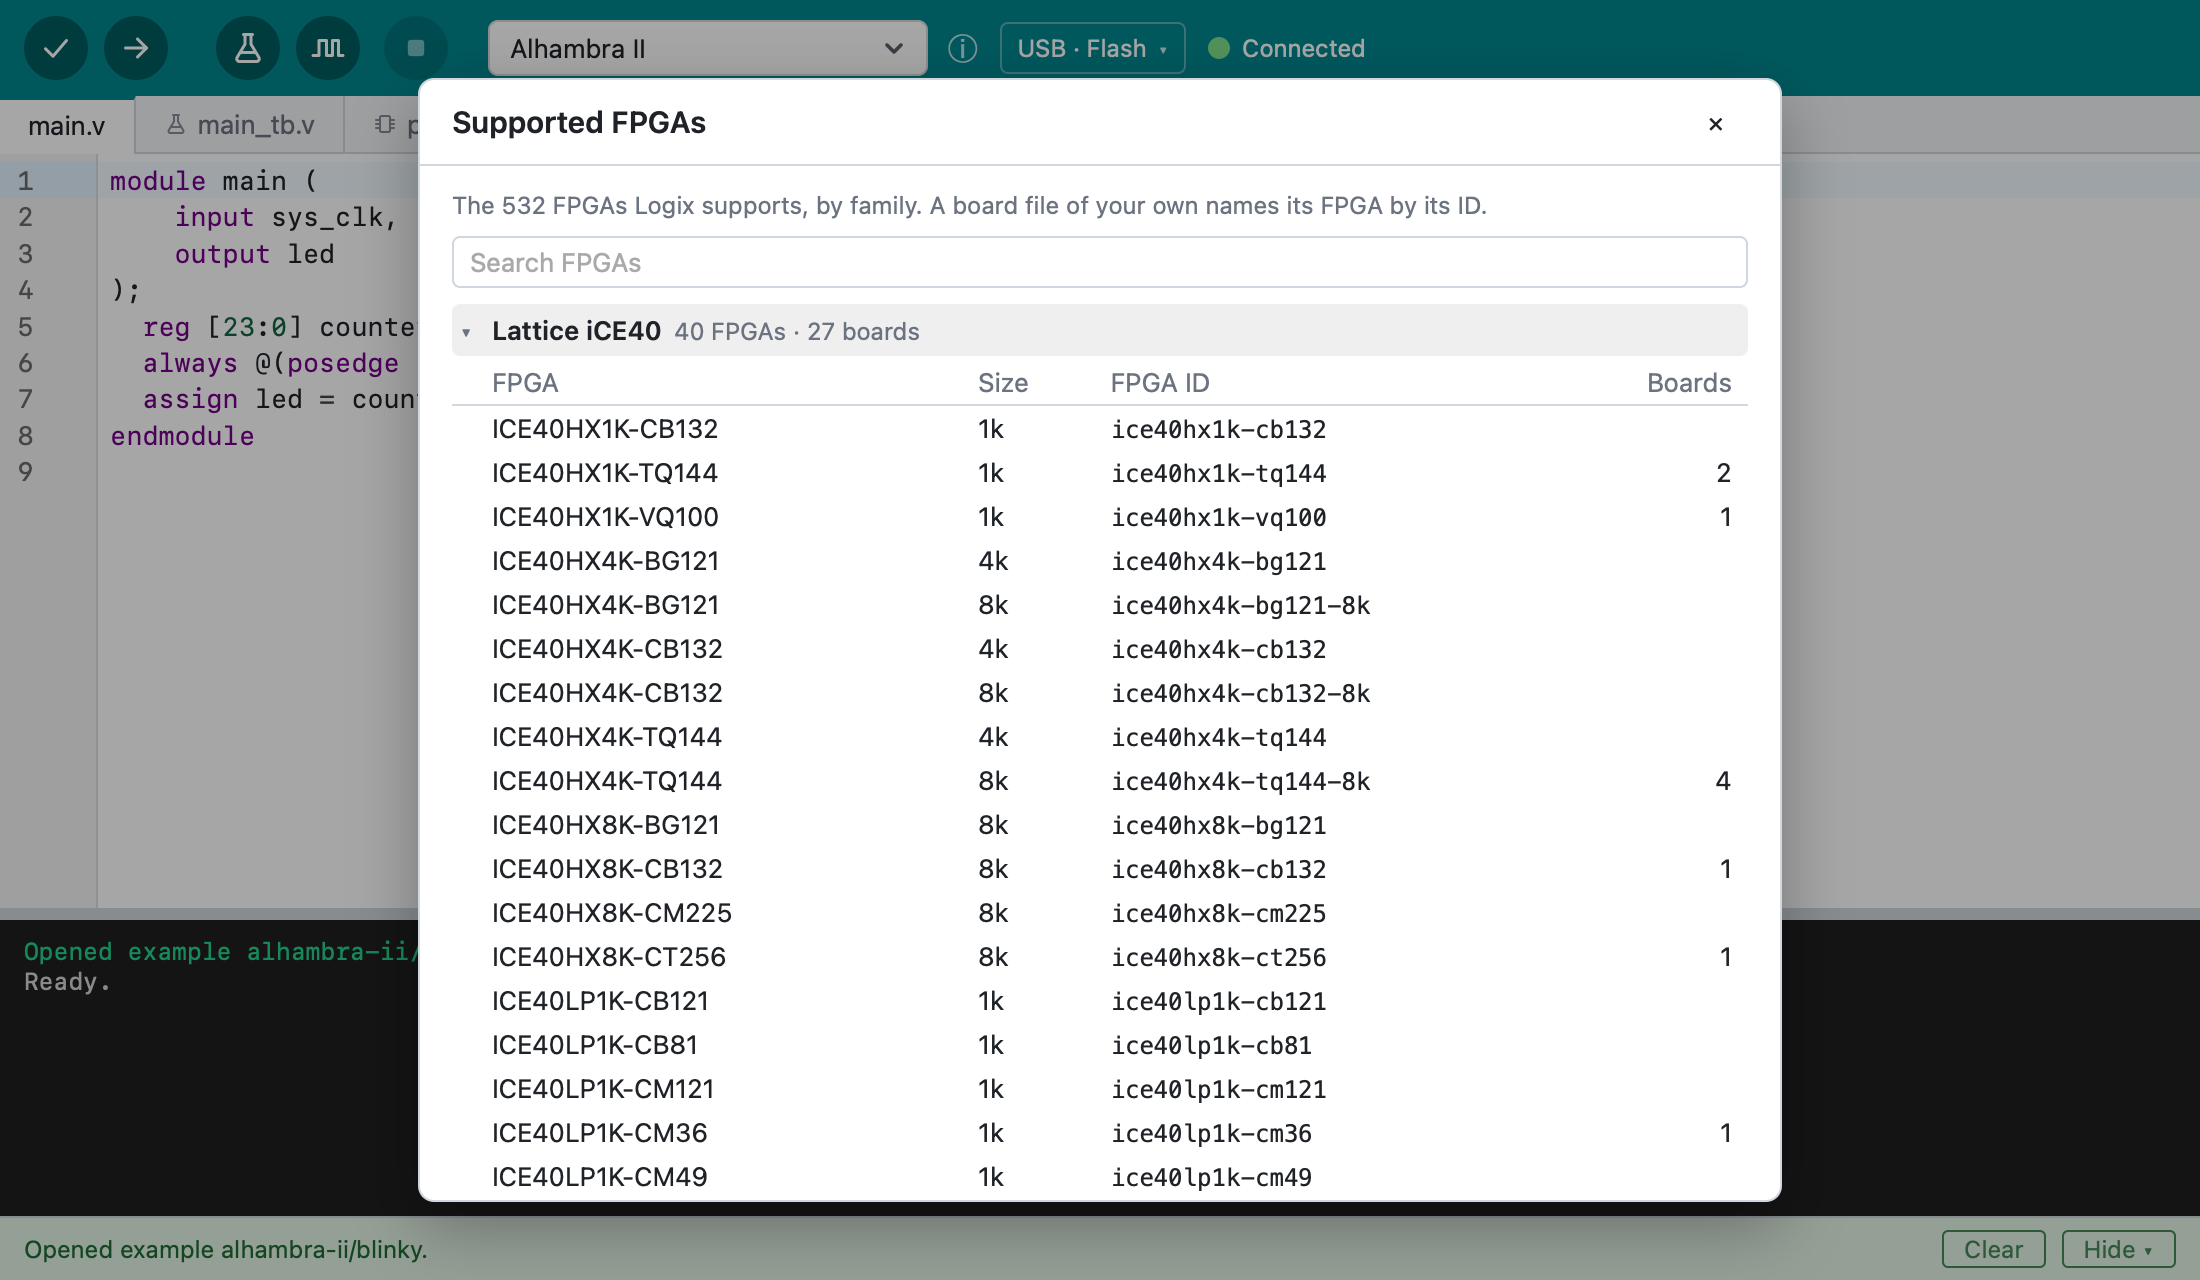
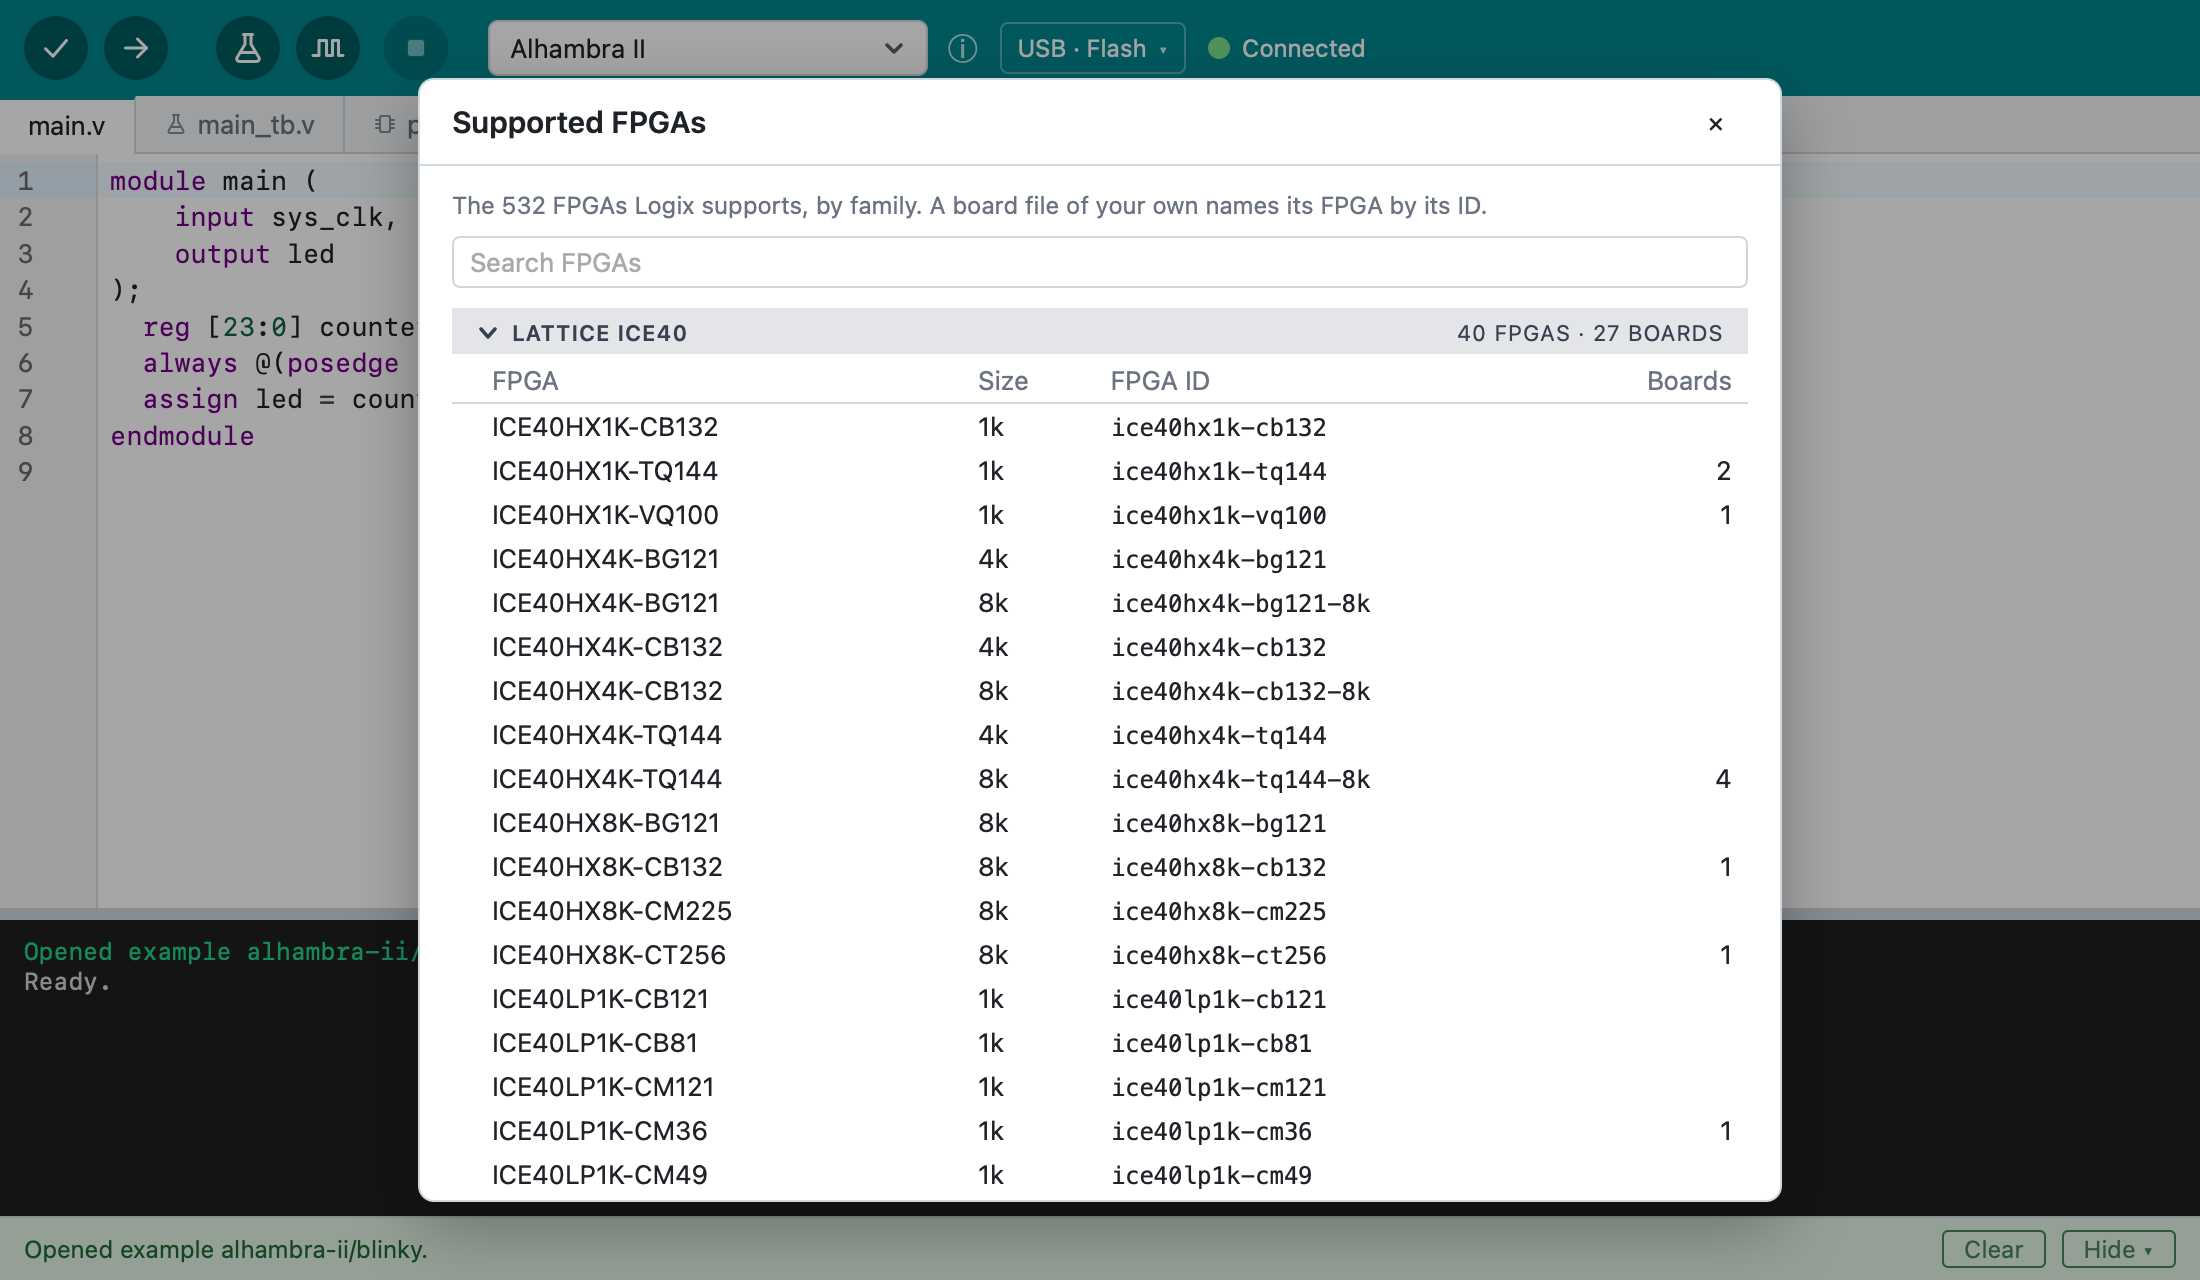
Supported FPGAs: family headings styled like the board picker's groups

diff --git a/ui/src/lib/SupportedFpgasDialog.svelte b/ui/src/lib/SupportedFpgasDialog.svelte
@@ -98,9 +98,18 @@
                 aria-expanded={shown}
                 disabled={searching}
                 onclick={() => toggle(g.id)}
-                ><span class="chevron" aria-hidden="true">{shown ? "▾" : "▸"}</span>
+                ><svg class="chevron" class:open={shown} viewBox="0 0 12 12" width="12" height="12" aria-hidden="true"
+                  ><path
+                    d="M4 2.5 L8 6 L4 9.5"
+                    fill="none"
+                    stroke="currentColor"
+                    stroke-width="1.8"
+                    stroke-linecap="round"
+                    stroke-linejoin="round"
+                  /></svg
+                >
                 <span class="family-label">{g.label}</span>
-                <span class="muted">{count(g.fpgaCount, "FPGA")} · {count(g.boardCount, "board")}</span></button
+                <span class="count">{count(g.fpgaCount, "FPGA")} · {count(g.boardCount, "board")}</span></button
               >
               {#if shown}
                 <table>
@@ -201,29 +210,42 @@
     padding: 0;
     list-style: none;
   }
+  /* The family headings look like the board picker's group headings. */
   .family-toggle {
+    position: sticky;
+    top: 0;
     display: flex;
-    align-items: baseline;
+    align-items: center;
     gap: 6px;
     width: 100%;
-    padding: 5px 4px;
+    margin-top: 2px;
+    padding: 6px 12px 4px;
     border: none;
-    border-radius: 4px;
-    background: none;
+    background: var(--group-bg);
+    color: var(--group-fg);
+    font-size: 11px;
+    font-weight: 600;
+    letter-spacing: 0.04em;
+    text-transform: uppercase;
     text-align: left;
-  }
-  .family-toggle:hover:not(:disabled) {
-    background: var(--hover, rgba(127, 127, 127, 0.12));
   }
   .family-toggle:disabled {
     cursor: default;
   }
-  .chevron {
-    width: 10px;
-    color: var(--muted);
-  }
   .family-label {
-    font-weight: 600;
+    flex: 1;
+    min-width: 0;
+  }
+  .chevron {
+    flex: none;
+    transition: transform 0.1s;
+  }
+  .chevron.open {
+    transform: rotate(90deg);
+  }
+  .count {
+    margin-left: auto;
+    font-weight: 400;
   }
   table {
     width: 100%;

diff --git a/ui/e2e/app.e2e.ts b/ui/e2e/app.e2e.ts
@@ -1163,7 +1163,7 @@ test("Supported FPGAs lists every FPGA by family, with its boards", async ({ pag
   const families = dialog.getByRole("list", { name: "FPGA families" });
   // Every family, collapsed, counting its FPGAs and boards; GW5A has none.
   const toggles = families.getByRole("button", { name: /FPGAs? ·/ });
-  await expect(toggles.first()).toHaveText(/^▸\s*Lattice iCE40\s*40 FPGAs · 27 boards$/);
+  await expect(toggles.first()).toHaveText(/^\s*Lattice iCE40\s*40 FPGAs · 27 boards$/);
   const gw5a = families.getByRole("button", { name: /Gowin GW5A/ });
   await expect(gw5a).toHaveText(/48 FPGAs · 0 boards/);
   await expect(gw5a).toHaveAttribute("aria-expanded", "false");
